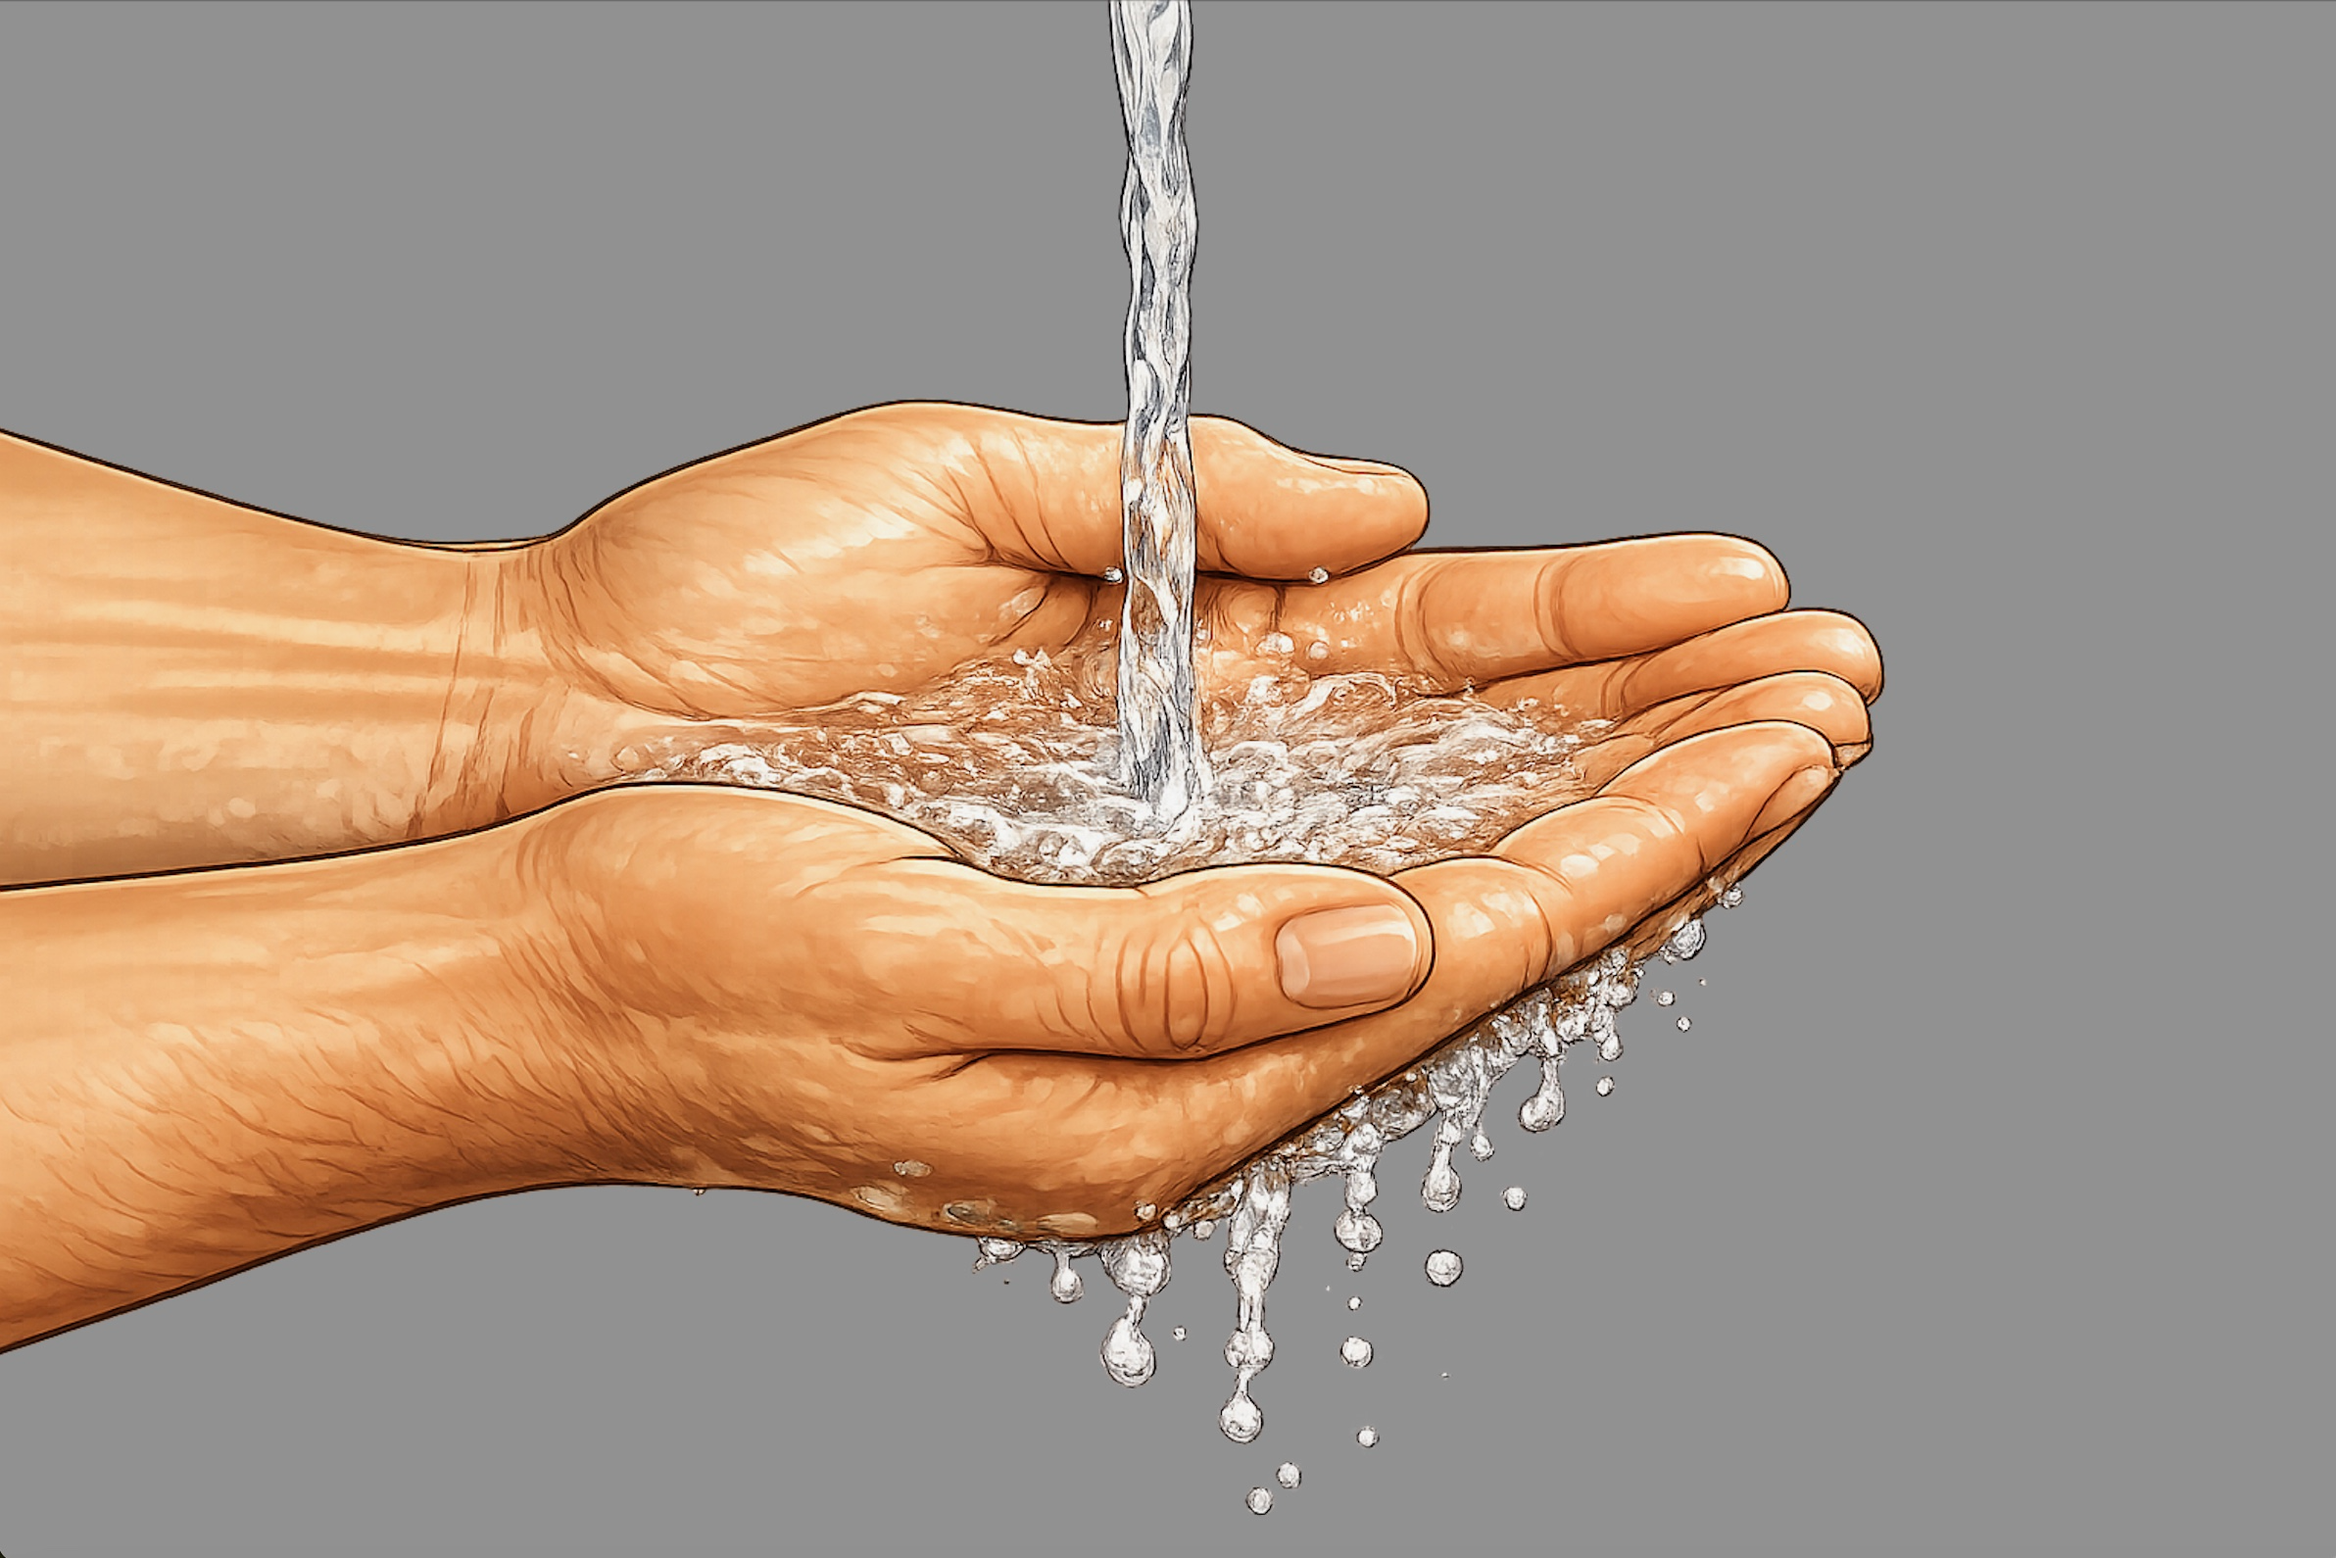
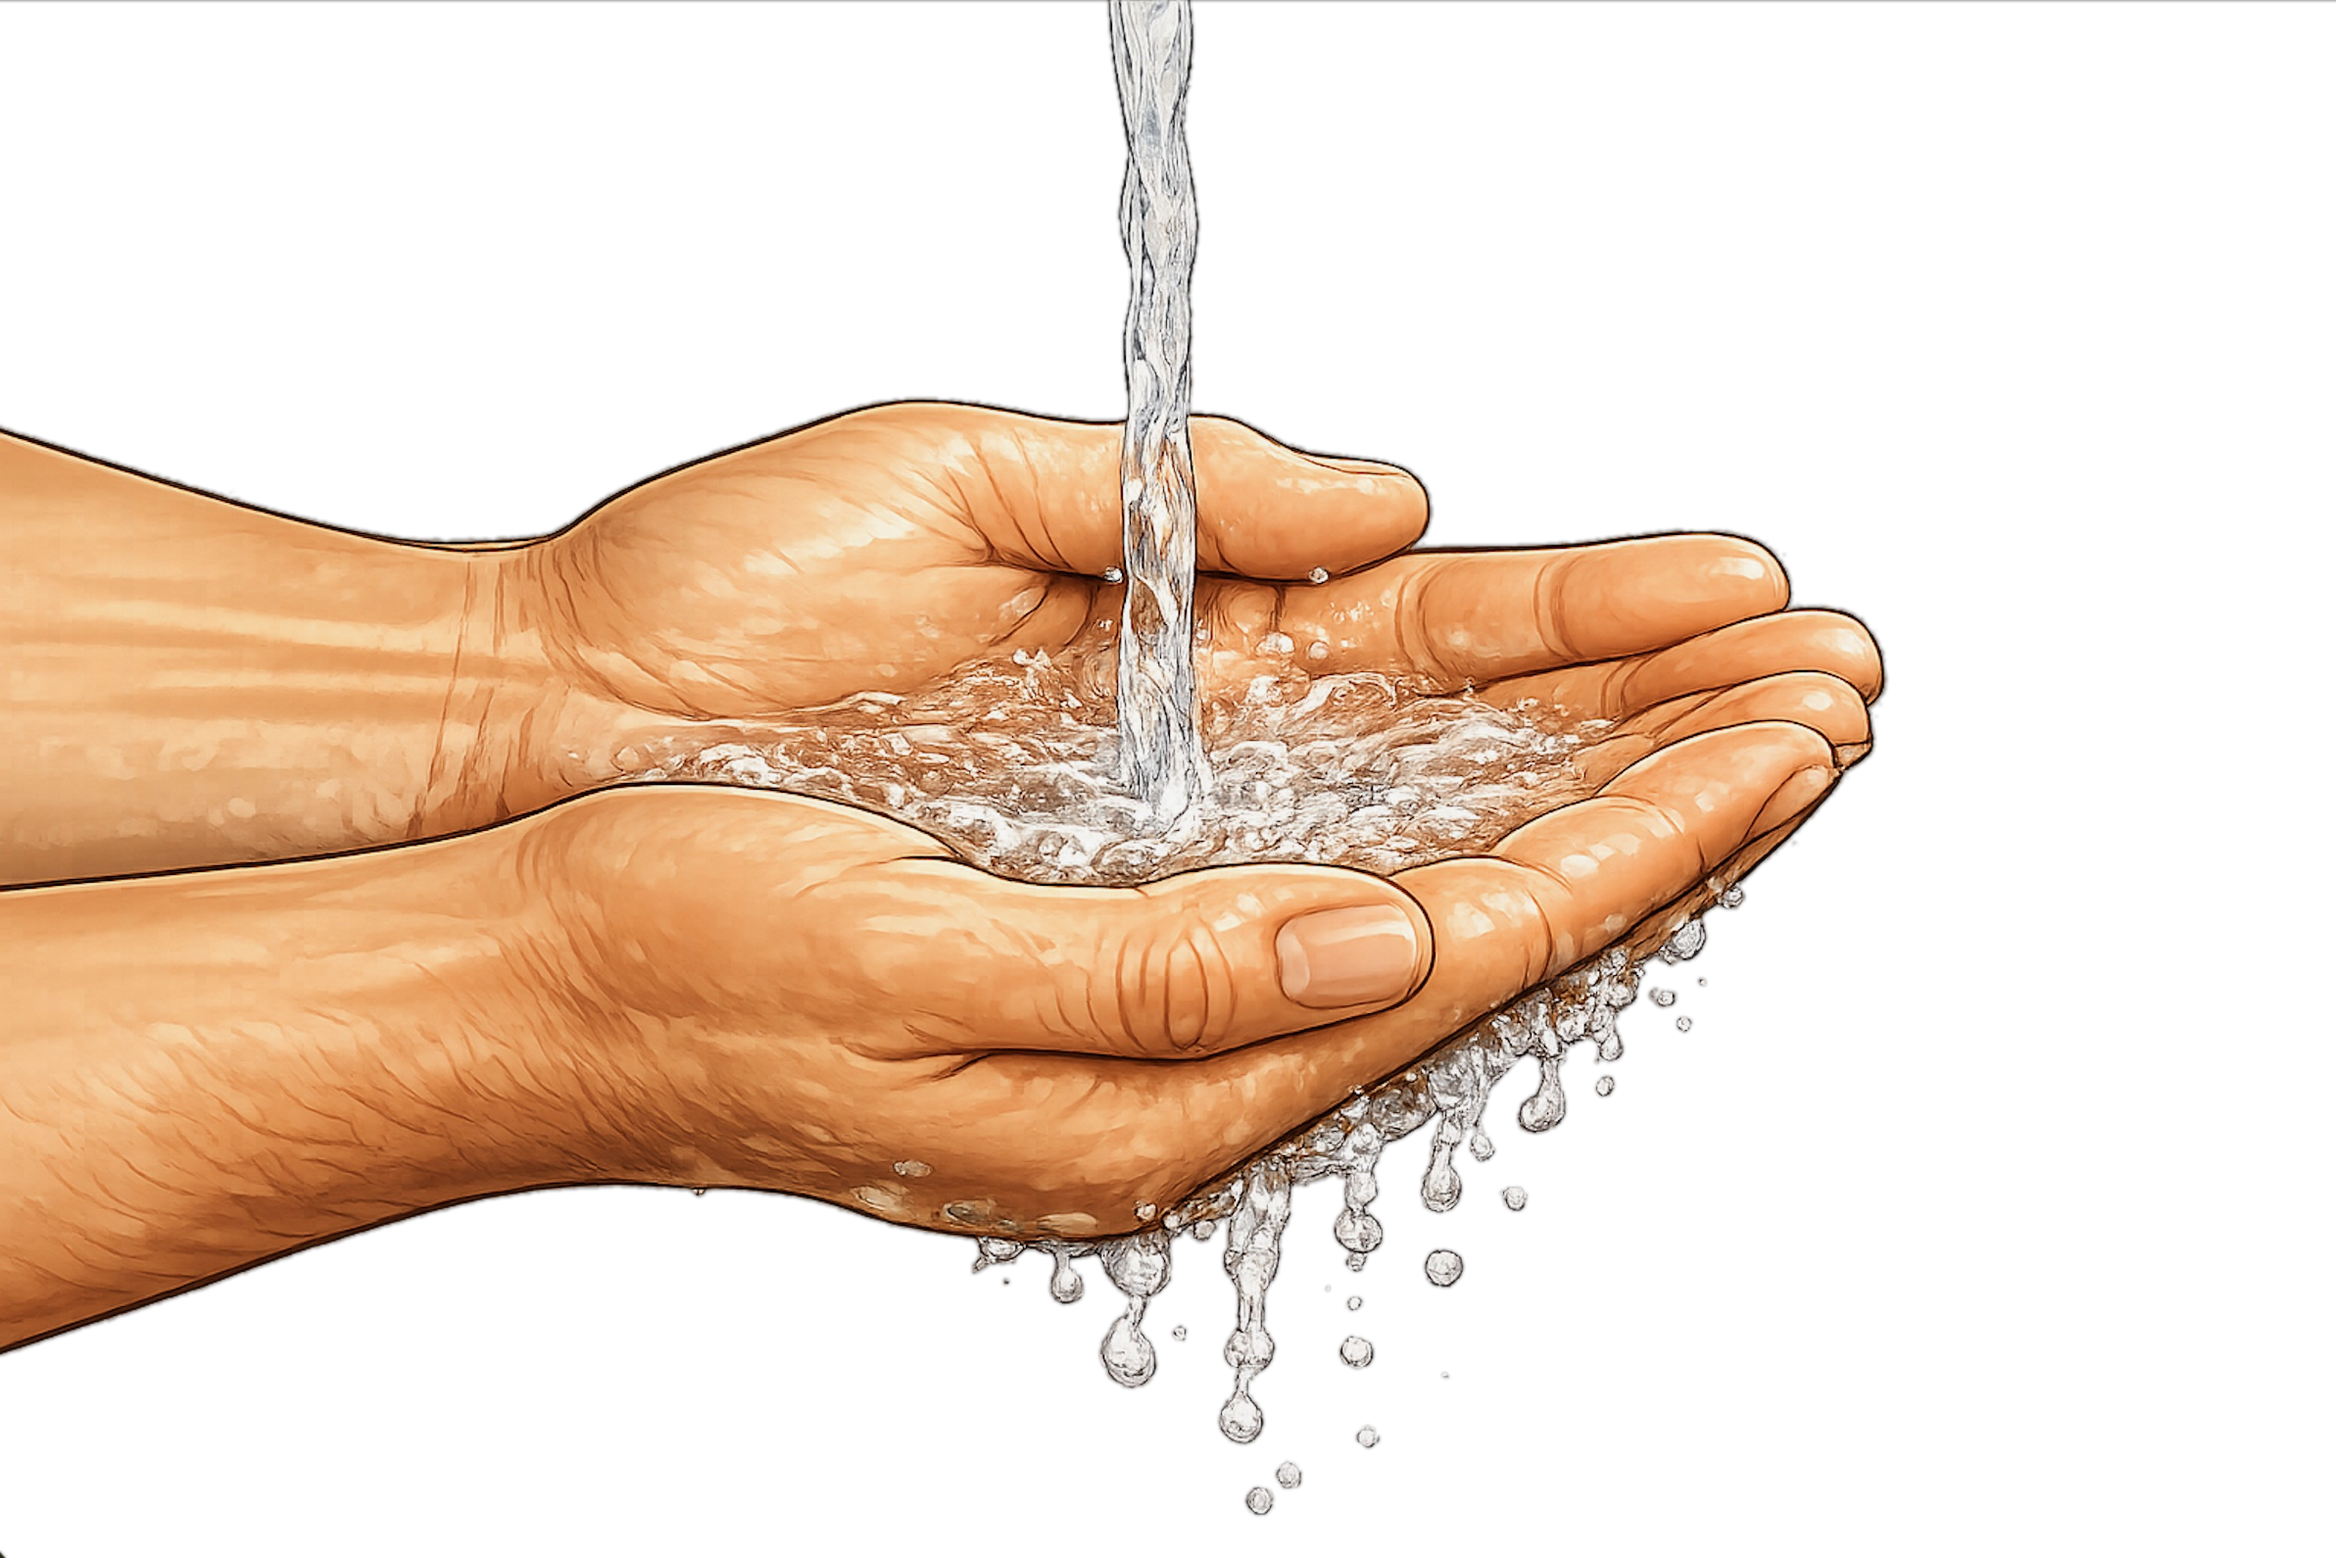
Unify product card images: navy background, alpha transparency, taller containers
- Remove baked-in grey/white backgrounds from product images (flood-fill
  for hand-salt, color-threshold with neutrality check for supplement
  and hydrate to handle isolated background pockets)
- Feathered alpha edges (1.5px Gaussian blur) for smooth cutouts
- Set image containers to height 300, background navy, borderRadius 3
- Remove mixBlendMode: "multiply" from img style (no longer needed)
- Add public/images/backups/ to .gitignore

diff --git a/app/HomeClient.tsx b/app/HomeClient.tsx
@@ -307,19 +307,20 @@ function ProductCard({
     >
       <div
         style={{
-          height: 160,
+          height: 300,
           display: "flex",
           alignItems: "center",
           justifyContent: "center",
           marginBottom: 4,
-          background: "transparent",
+          background: C.navy,
+          borderRadius: 3,
         }}
       >
         {/* eslint-disable-next-line @next/next/no-img-element */}
         <img
           src={imagePath}
           alt={name}
-          style={{ height: "100%", width: "100%", objectFit: "contain", mixBlendMode: "multiply" }}
+          style={{ height: "100%", width: "100%", objectFit: "contain" }}
         />
       </div>
       <h3
